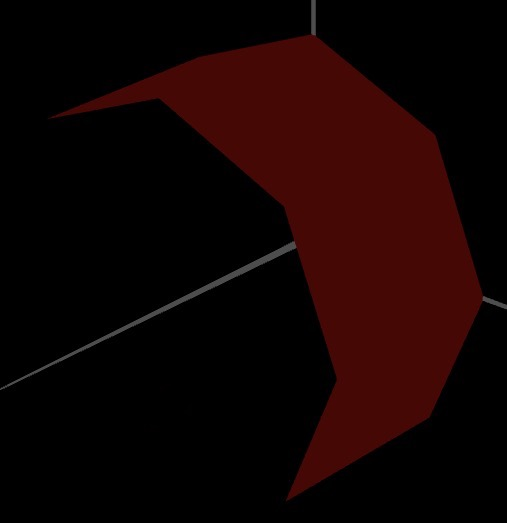
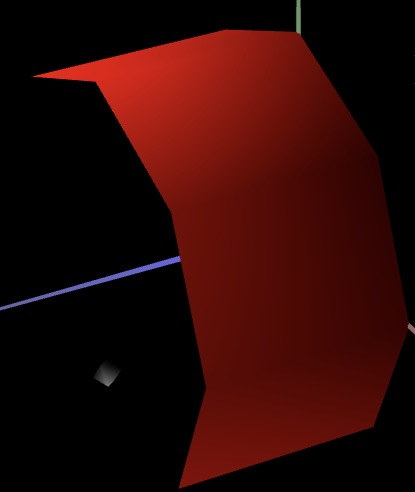
fixing tp3-2 normals

diff --git a/tp3/MyPrism.js b/tp3/MyPrism.js
@@ -34,25 +34,33 @@ export class MyPrism extends CGFobject {
 				this.vertices.push(Math.sin(angle * i))
 				this.vertices.push(j / this.stacks)
 
-				this.indices.push(j*this.slices*2 + i*2)
-				this.indices.push(j*this.slices*2 + i*2+1)
-				this.indices.push(j*this.slices*2 + i*2+2)
 
-				this.indices.push(j*this.slices*2 + i*2+1)
-				this.indices.push(j*this.slices*2 + i*2+3)
-				this.indices.push(j*this.slices*2 + i*2+2)
+				this.vertices.push(Math.cos(angle * (i+1)))
+				this.vertices.push(Math.sin(angle * (i+1)))
+				this.vertices.push((j+1) / this.stacks)
 
-				this.normals.push(Math.cos(angle), Math.cos(Math.PI/4.0), -Math.sin(angle));
-				this.normals.push(Math.cos(angle), Math.cos(Math.PI/4.0), -Math.sin(angle));
+				this.vertices.push(Math.cos(angle * (i+1)))
+				this.vertices.push(Math.sin(angle * (i+1)))
+				this.vertices.push(j / this.stacks)
+
+
+				this.indices.push(j*this.slices*4 + i*4)
+				this.indices.push(j*this.slices*4 + i*4+1)
+				this.indices.push(j*this.slices*4 + i*4+2)
+
+				this.indices.push(j*this.slices*4 + i*4+1)
+				this.indices.push(j*this.slices*4 + i*4+3)
+				this.indices.push(j*this.slices*4 + i*4+2)
+
+				this.normals.push(Math.cos(angle - angle/2), Math.cos(Math.PI/4.0), -Math.sin(angle/2));
+				this.normals.push(Math.cos(angle - angle/2), Math.cos(Math.PI/4.0), -Math.sin(angle/2));
+				this.normals.push(Math.cos(angle - angle/2), Math.cos(Math.PI/4.0), -Math.sin(angle/2));
+				this.normals.push(Math.cos(angle - angle/2), Math.cos(Math.PI/4.0), -Math.sin(angle/2));
 			}
-
-			this.indices[this.indices.length-1] = j*this.slices*2
-			this.indices[this.indices.length-2] = j*this.slices*2 + 1
-			this.indices[this.indices.length-4] = j*this.slices*2
 		}
 
-		print (this.indices)
-		print (this.vertices)
+		console.log(this.indices)
+		console.log(this.vertices)
 
 		//The defined indices (and corresponding vertices)
 		//will be read in groups of three to draw triangles

diff --git a/tp3/MyCylinder.js b/tp3/MyCylinder.js
@@ -51,8 +51,8 @@ export class MyCylinder extends CGFobject {
 			this.indices[this.indices.length-4] = j*this.slices*2
 		}
 
-		print (this.indices)
-		print (this.vertices)
+		console.log(this.indices)
+		console.log(this.vertices)
 
 		//The defined indices (and corresponding vertices)
 		//will be read in groups of three to draw triangles
